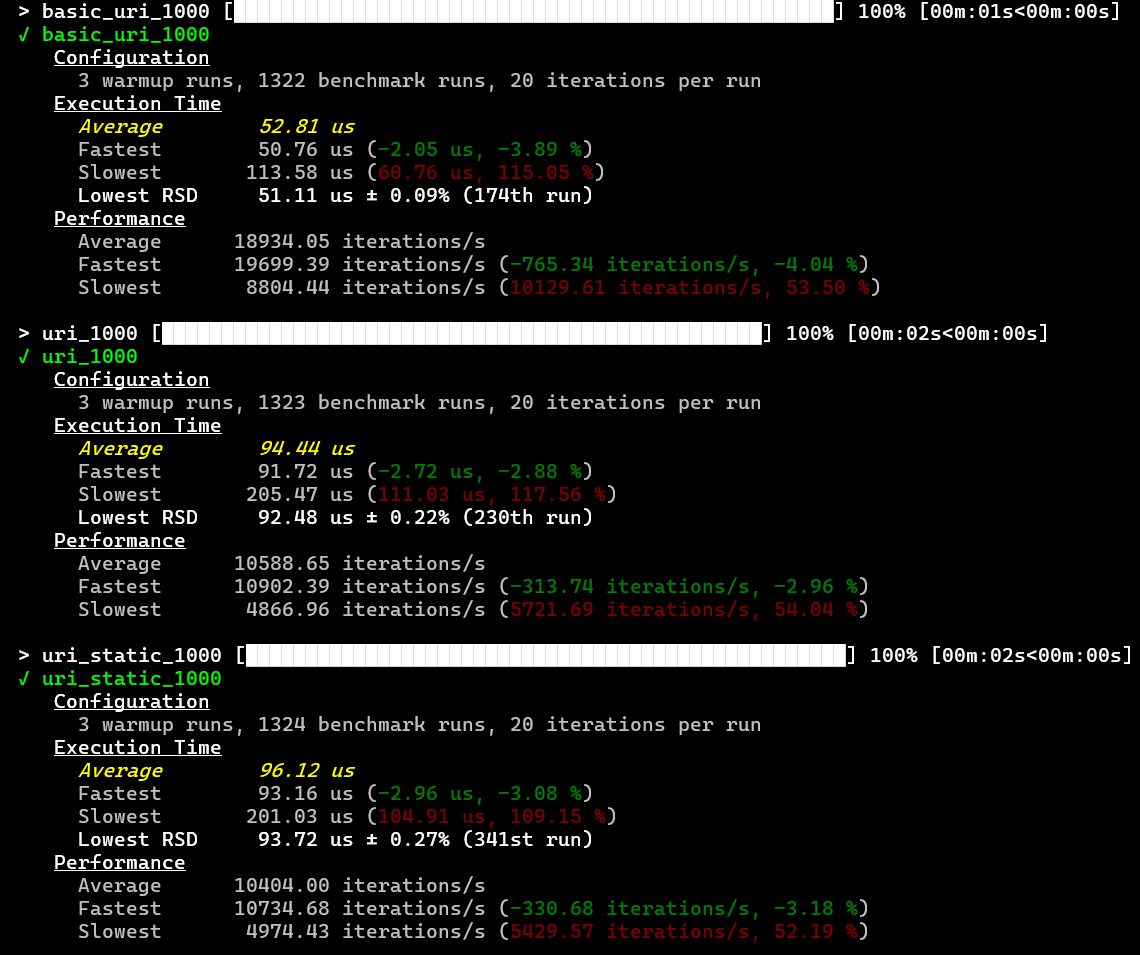
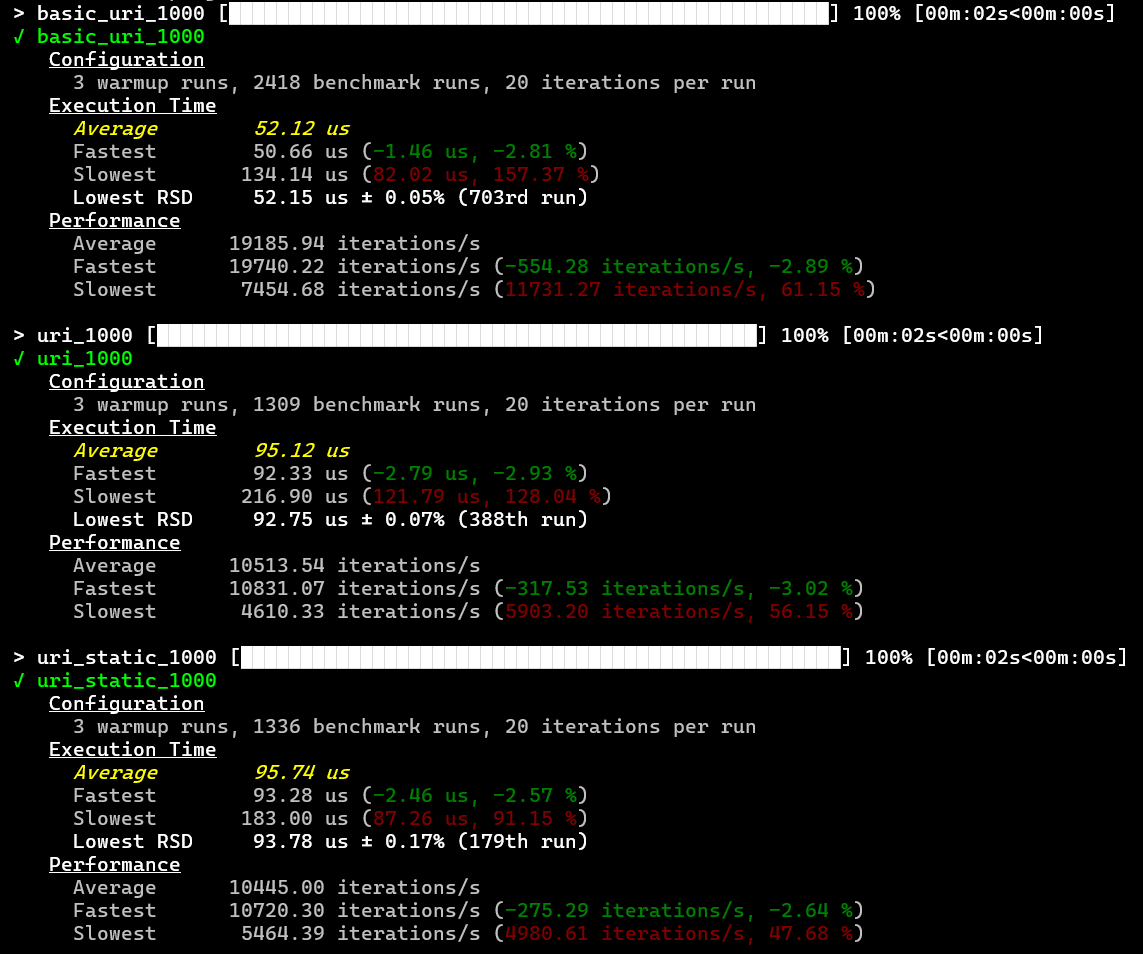
updated

Changed region(s): [[0.0307, 0.0, 1.0, 1.0], [0.2149, 0.1216, 0.5219, 0.2128]]

diff --git a/README.md b/README.md
@@ -38,7 +38,7 @@ This is a lightweight URI parser implementation featuring zero-copy, minimal sto
 
 ## Features
 - single _header-only_
-- fast, very lightweight, predictive non brute force parser: avg 53ns to decode a URI with `basic_uri`
+- fast, very lightweight, predictive non brute force parser: avg 52ns to decode a URI with `basic_uri`
 - base class is zero-copy, using `std::string_view`
 - derived class moves (or copies) source string once
 - all methods `constexpr`; no virtual methods
@@ -483,9 +483,9 @@ is present in the uri.
 ```c++
 const uri u1{"https://www.hello.com:8080/"};
 if (u1.has_port())
-	.
-	.
-	.
+   .
+   .
+   .
 ```
 
 ### `get_component`
@@ -840,8 +840,8 @@ From the above results we can see the following average performance per URI:
 
 | Class | Decode(ns) |
 | --- | --- |
-| `basic_uri`  | **53** _ns_ |
-| `uri`  | **94** _ns_ |
+| `basic_uri`  | **52** _ns_ |
+| `uri`  | **95** _ns_ |
 | `uri_static`  | **96** _ns_ |
 
 [^1]: Ubuntu 23.10, 12 core 4.7GHz Intel i7 Cometlake Processors, 15.3GB RAM; gcc-13.2.0
